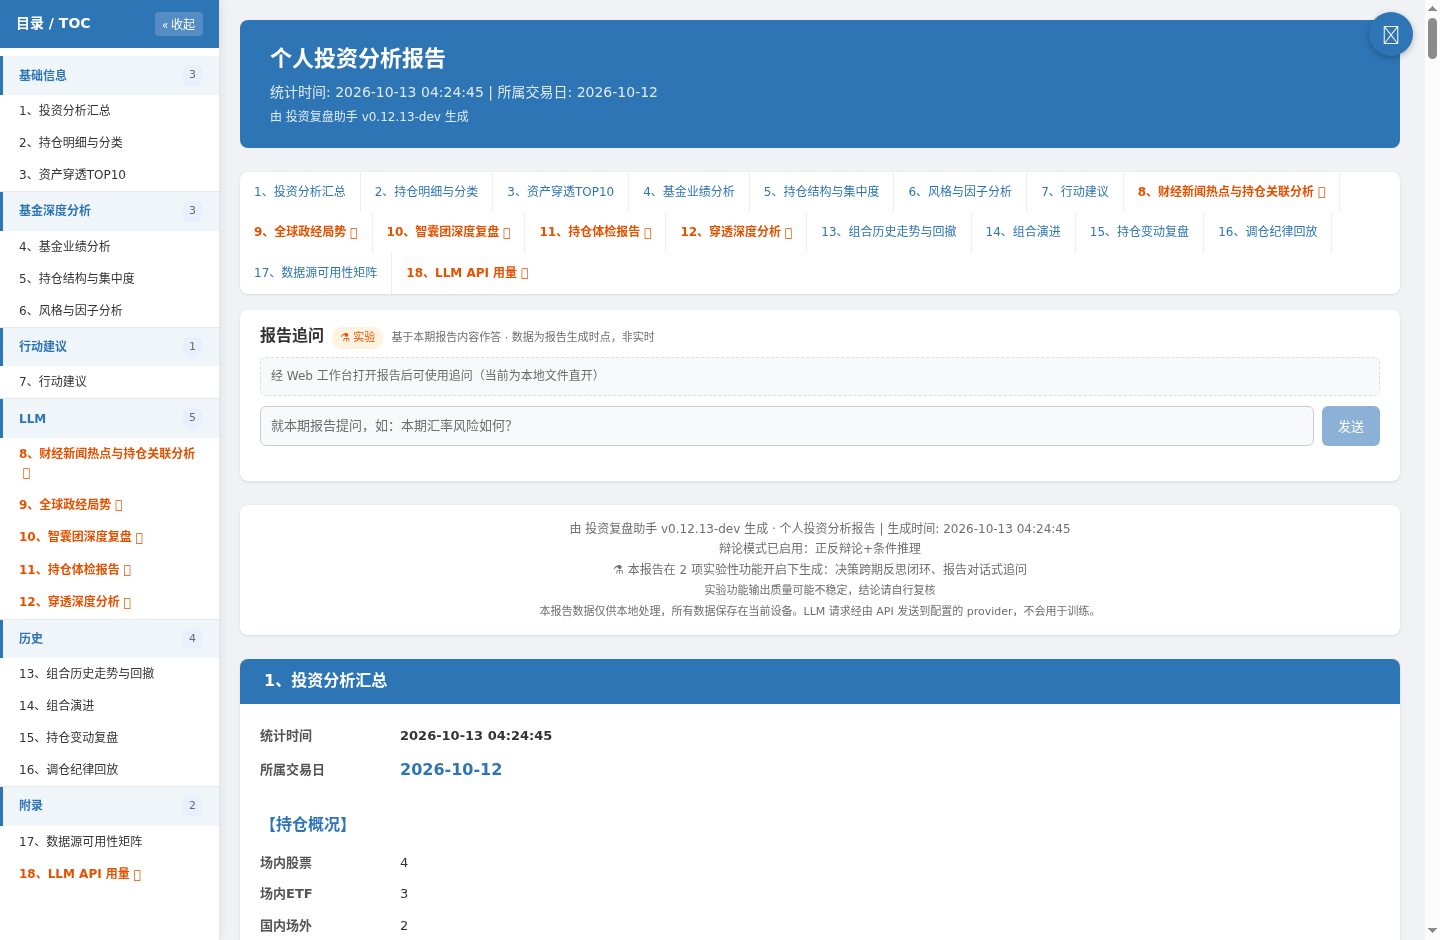
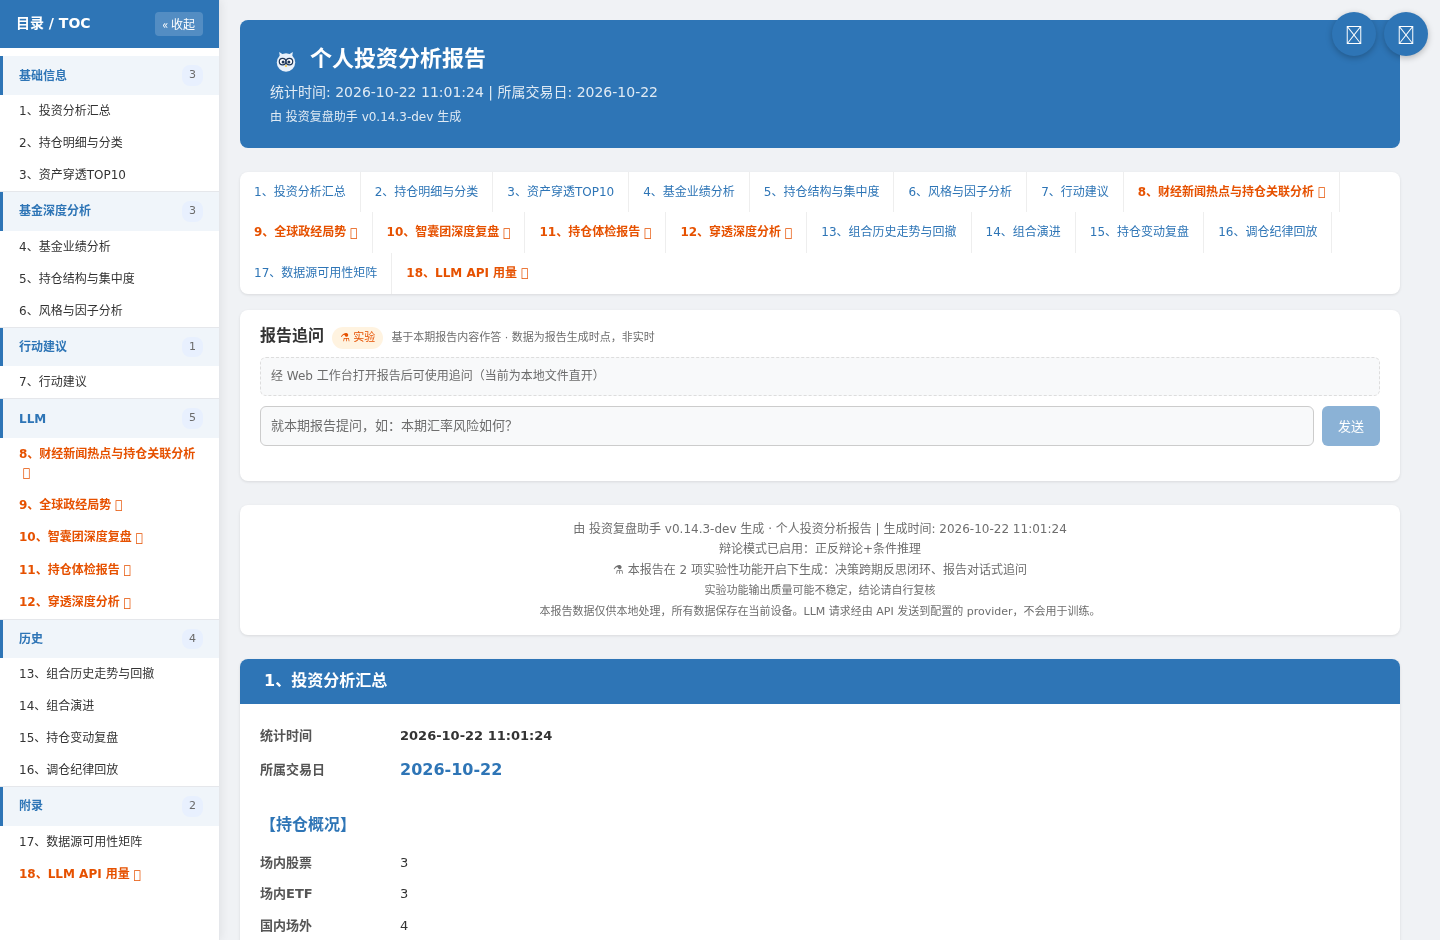
docs(readme): 实景截图按 v0.14.3-dev 全面刷新 + 新增 CLI 渠道回显图
- 报告三图重拍：首屏品牌标记与目录导航、盈亏汇总与市场指数、穿透行业分布与 TOP10 持仓交互图表
- 界面三图重拍：TUI 主菜单（19 项含新菜单项）、Web 工作台、Web 配置编辑
- 新增 cli-report.png：CLI basic 运行收尾回显（产物路径 / 盈亏汇总 / 模块耗时排行）
- 样例持仓为虚构两账户 10 只，于隔离目录生成，真实持仓/缓存/报告目录零接触
- README 图说、folders 目录树与统计行（截图 6→7 张）、changelog 同步

diff --git a/docs/managements/folders.md b/docs/managements/folders.md
@@ -11,15 +11,15 @@
 > |---|---|---|---|---|
 | 主程序代码 | Python | 382 | 101,024 | `src/` 下所有 `.py`（不含测试：`src/__init__.py` 顶层包标记 + `src/python/` 下 15 个 `__init__.py`，含 `web/` 服务层；近期新增 `providers/tiantian_purchase.py` 天天基金申购状态总表 provider + `fetcher/fund_purchase.py` 申购状态取数编排（双链路/准入/会话复用） + `core/jsonl_store.py` JSONL 原子原语 + `core/signal_ledger.py` 确定性信号账本 + `report/signal_record.py` 信号登记适配器 + `core/num_utils.py` 数值归一原语 + `core/doctor.py` 系统自检 + `core/cassette.py` 请求回放引擎 + `core/datasource_credential.py` 数据源凭据声明 + `fetcher/source_adapter.py` 适配契约 + `fetcher/quote_adapters.py` 行情域适配器 + `llm/module_fingerprint.py` 模块指纹唯一事实来源 + `report/_experimental_seams.py` 实验挂载点 + `report/holdings_freshness.py` 持仓报告期时效判定 + `report/experimental_notice.py` 实验功能清单语句单源 + `core/trading_calendar.py` 交易日历原语（时间距离一律以交易日计） + `providers/datasink.py` 全文本财报 provider（密钥/限速/配额） + `providers/hithink.py` 同花顺金融数据服务 provider（A 股行情/财务/基金/情绪面；凭据/qps 限速/信封错误码） + `fetcher/financial_report.py` 财报取数编排 + `fetcher/report_adapters.py` 财报域适配器 + `report/financial_report_digest.py` 财报摘要章节装配 + `providers/akshare_financial.py` 结构化财务指标主源 + `fetcher/financial_indicator_adapters.py` 财务指标域适配器 + `core/code_utils.py::to_fmp_symbol` 共享符号映射 + `providers/_utils.py::run_with_timeout` 共享取数超时原语 + `analysis/financial_indicator_extract.py` 财务指标全文解析（压平正文锚点提取，备用支路） + `fetcher/financial_indicator.py` 财务指标多期取数编排 + `analysis/financial_indicator.py` 财务指标派生（质量档/趋势/当前 PE·PB） + `report/financial_indicator.py` 财务指标章装配 + `report/holdings_detail_sheet.py` 持仓明细与分类 Excel 页签 + `report/position_structure_sheet.py` 持仓结构与集中度 Excel 页签 + `report/fundamental_snapshot_sheet.py` 持仓基本面 Excel 页签（三者均为章节合并写入器） + `llm/compliance.py` 合规声明集中注入（幂等叠加，单一漏斗覆盖全模块）） |
 | HTML 报告模板 | HTML | 23 | 5,193 | `src/static/tmpl/report_template.html` + `whatif_template.html`（调仓 What-if 独立 HTML 页）+ `partials/`（章节级/区块级 partial，主模板按 TOC 六组经 Jinja include 拆入，清单见目录树 `partials/` 节点） |
-| 架构图示 | SVG | 4 | 396 | `src/static/` README 架构图（architecture 三渠道→引擎→双报告、llm-chain Provider 链式分发、capabilities 九大功能域总览、owl-mascot 吉祥物猫头鹰「守望」）+ 截图 6 张 PNG（报告实景 `report-overview`/`report-toc`/`report-charts` + 界面实景 `tui-menu`/`web-workbench`/`web-config`，不计入本行） |
+| 架构图示 | SVG | 4 | 396 | `src/static/` README 架构图（architecture 三渠道→引擎→双报告、llm-chain Provider 链式分发、capabilities 九大功能域总览、owl-mascot 吉祥物猫头鹰「守望」）+ 截图 7 张 PNG（报告实景 `report-overview`/`report-toc`/`report-charts` + 界面实景 `tui-menu`/`web-workbench`/`web-config`/`cli-report`，不计入本行） |
 | 辅助脚本 | Python | 101 | 22,189 | `scripts/`（启动脚本 + CLI 命令行包装、测试驱动、工具检查、任务编号检查、性能测试、LLM 幻觉率评估、测试覆盖计数、代码/文档历史痕迹与结构性冗余检查、语义命名索引校验、Claude Code hook 安装/校验、Web 冒烟脚本、push2 连通性诊断、SVG 架构图检查） |
 | 源代码合计 | — | 510 | 128,802 | 主程序 + 模板 + 脚本 + SVG |
 | 测试代码 | Python | 594 | 167,230 | `src/test/` 所有 `.py` 文件（含近期 ruff format 全仓重排） |
 | 测试用例 | — | — | 11,290 个 | `pytest --collect-only` 统计（`scripts/collect-test-coverage.py` 实时收集快照，不含 opt-in live 套件） |
-| 用户文档 | Markdown | 13 | 6,235 | 含 README.md（211 行）；行数为 README + manuals 之和 |
+| 用户文档 | Markdown | 13 | 6,239 | 含 README.md（211 行）；行数为 README + manuals 之和 |
 | ├ manuals/ | 用户手册分册 | 12 | 6,021 | 配置/faq/快速上手/TUI/CLI/Web 三种模式指南等 |
-| 项目文档 | Markdown | 182 | 65,629 | 含 CLAUDE.md（89 行）；md 口径（CLAUDE.md 1 + managements 12 + plan 4 + archive md 160），py/txt 不计行 |
-| ├ managements/ | 管理文档 | 13 | 13,007 | 变更日志/目录树/测试计划/技术设计/开发者指南等 |
+| 项目文档 | Markdown | 182 | 65,632 | 含 CLAUDE.md（89 行）；md 口径（CLAUDE.md 1 + managements 12 + plan 4 + archive md 160），py/txt 不计行 |
+| ├ managements/ | 管理文档 | 13 | 13,010 | 变更日志/目录树/测试计划/技术设计/开发者指南等 |
 | ├ archive/ | 版本归档 | 164 | 51,828 | 各版本 changelog/plan/review-findings 与设计文档归档（157 md 50,492 行，含 Vibe-Trading/gs-quant/TradingAgents 借鉴批候选研究、基金申购限购三份设计与 LLM 成本调节/自检/源指定设计） |
 | ├ plan/ | 中间设计文件 | 4 | ~702 | 在办设计文档（扁平存放，完成后迁入对应版本的归档子目录）：两份 Jev 新闻关联判定文档（对照评测方案 + 类型化判定通道接入设计）+ 决策跨期反思闭环设计 + Web 浏览器验证方法 |
 | └ tmp/ | 临时文件 | — | — | 调试产物、迁移暂存（git 忽略，不计入统计） |
@@ -74,7 +74,7 @@ git grep -c "def test_" <rev> -- 'src/test'
 | 用户手册 | 0 | 10 分册（`manuals/`：上手 / 三种运行模式 / 配置 / 数据源与可靠性 / 报告解读 / FAQ） |
 | 版本归档 | 0 | 160 份版本快照（各版本 changelog / 计划 / 自审记录与专题设计） |
 | 工程设施 | 2 个启动脚本 | 77 个脚本（测试驱动、10 个一致性守护脚本、LLM 幻觉率评估、测试覆盖计数、连通性诊断、SVG 审查等） |
-| 架构图示 | 0 | 5 张 SVG + 6 张界面/报告 PNG（架构图示 + 报告/Web/TUI 实景截图） |
+| 架构图示 | 0 | 5 张 SVG + 7 张界面/报告 PNG（架构图示 + 报告/Web/TUI/CLI 实景截图） |
 | 质量门禁 | 无 | 分层门禁：提交前 P0 / 合入前 P1 / 发布前 P2 + 10 个一致性守护脚本 + 三档 CI（含非 UTF-8 locale 可移植性探针） |
 
 ## 目录树
@@ -509,12 +509,13 @@ investor-review/
 │   │   ├── owl-mascot.svg            #   README 吉祥物「守望」猫头鹰插画（夜间守望/智慧顾问/全景视野定位隐喻）
 │   │   ├── llm-chain.svg             #   README LLM 智囊团 Provider 链式分发图
 │   │   ├── capabilities.svg          #   README 九大功能域总览图
-│   │   ├── report-overview.png       #   README 报告效果截图：首屏完整目录导航与章节入口（虚构样例持仓实景）
-│   │   ├── report-toc.png            #   README 报告效果截图：盈亏汇总与组合持仓概况
-│   │   ├── report-charts.png         #   README 报告效果截图：资产构成与穿透行业分布交互图表
+│   │   ├── report-overview.png       #   README 报告效果截图：首屏品牌标记与完整目录导航（虚构样例持仓实景）
+│   │   ├── report-toc.png            #   README 报告效果截图：盈亏汇总与市场指数
+│   │   ├── report-charts.png         #   README 报告效果截图：穿透行业分布与 TOP10 持仓资产交互图表
 │   │   ├── tui-menu.png              #   README 界面实景：TUI 全键盘主菜单（页头状态行）
 │   │   ├── web-workbench.png         #   README 界面实景：Web 工作台生成报告页签（上传→选格式→生成）
 │   │   ├── web-config.png            #   README 界面实景：Web 配置编辑面板（与 TUI 菜单同源）
+│   │   ├── cli-report.png            #   README 界面实景：CLI 生成报告回显（产物路径 / 盈亏汇总 / 耗时排行）
 │   │   ├── web/                      #   Web UI 前端（Jinja 模板 + 静态资产，Flask template/static 目录指向此处）
 │   │   │   ├── favicon.svg           #   标签页图标（品牌蓝底 + 猫头鹰头像「守望」，link 声明免 /favicon.ico 404）
 │   │   │   ├── favicon-mark.png      #   猫头鹰头像 80×80（favicon.svg 栅格化，Excel 首页品牌标记嵌入源）

diff --git a/docs/managements/changelog.md b/docs/managements/changelog.md
@@ -15,6 +15,8 @@
 
 ### Changed
 
+- **README 实景截图全面刷新**：报告三图（首屏品牌标记与目录导航 / 盈亏汇总与市场指数 / 穿透行业分布与 TOP10 持仓交互图表）与 TUI 主菜单、Web 工作台、Web 配置三图按当前版本（v0.14.3-dev）重拍，并新增 **CLI 渠道回显图**（产物路径 / 盈亏汇总 / 模块耗时排行）；样例持仓为虚构两账户 10 只（个股 / ETF / 场外基金 / 债券基金 / 货币 ETF），在隔离目录内生成，真实持仓、缓存与报告目录零接触；README 图说与 folders 目录树/统计行同步（截图 6→7 张）。
+
 - **品牌标记补用（`rf-818`）**：猫头鹰「守望」此前只活在 README 与 Web favicon，报告与 Excel 首页没有标记。现 `DESIGN.md` 契约收窄为「拒绝 hero 大图、装饰性插画」并新增「品牌标记」条款（≤40px 身份识别、Excel ≤48px、不做装饰）+ 护栏 11；报告 favicon 由折线图换猫头鹰头像、页头加 32px 标记（窄屏 26px）、Web 工作台页头 36px、Excel 首页 40px（cairosvg 栅格化，失败静默跳过）；新增 `--brand-mark-ink` token 并登记 Colors 表。回归 5 例。
 
 - **仓库更名 `investor-util` → `investor-review`（`rf-817`）**：`util` 后缀与产品定位（完整工作流的应用，非脚本合集）矛盾，且与中文名「投资复盘助手」语义不对应。同步 14 个文件 47 处引用：README 徽章与 clone 命令、`pyproject.toml` 包名、目录树根名、四份用户手册路径示例、CLI/Web `prog` 显示名、三个 provider 的 HTTP `User-Agent`、通知邮件 `From` 兜底。GitHub 侧旧 URL 永久 301 重定向，外部引用不断。

diff --git a/README.md b/README.md
@@ -51,13 +51,13 @@
 
 ## 📸 实际报告效果
 
-由**全新虚构样例持仓**（两账户 · 10 只多资产混合：个股 / 场外基金 / ETF / 债基 / 货基，纯编造份额成本，本机真实行情）生成的 HTML 报告实景，全量报告（全部功能开关 + 六个 LLM 模块全开）：
+由**全新虚构样例持仓**（两账户 · 10 只多资产混合：个股 / ETF / 场外基金 / 债券基金 / 货币 ETF，纯编造份额成本，本机真实行情）生成的 HTML 报告实景，全量报告（22 项功能开关全开 + 六个 LLM 模块全开）：
 
-![报告首屏：完整目录导航与章节入口](src/static/report-overview.png)
+![报告首屏：品牌标记、完整目录导航与章节入口](src/static/report-overview.png)
 
-![盈亏汇总与组合持仓概况](src/static/report-toc.png)
+![盈亏汇总与市场指数](src/static/report-toc.png)
 
-![交互图表：资产构成与穿透行业分布](src/static/report-charts.png)
+![交互图表：穿透行业分布与 TOP10 持仓资产](src/static/report-charts.png)
 
 ## 🖥 界面实景
 
@@ -72,6 +72,10 @@
 **Web 配置编辑面板**（与 TUI 菜单同源，即改即存）：
 
 ![Web 配置编辑](src/static/web-config.png)
+
+**CLI 命令行模式**——参数驱动（`report --type basic|both|full`），产物路径、总盈亏与模块耗时排行直接回显，适合 cron / Windows 任务计划无人值守：
+
+![CLI 生成报告：产物路径、盈亏汇总与耗时排行](src/static/cli-report.png)
 
 ## 环境要求
 
